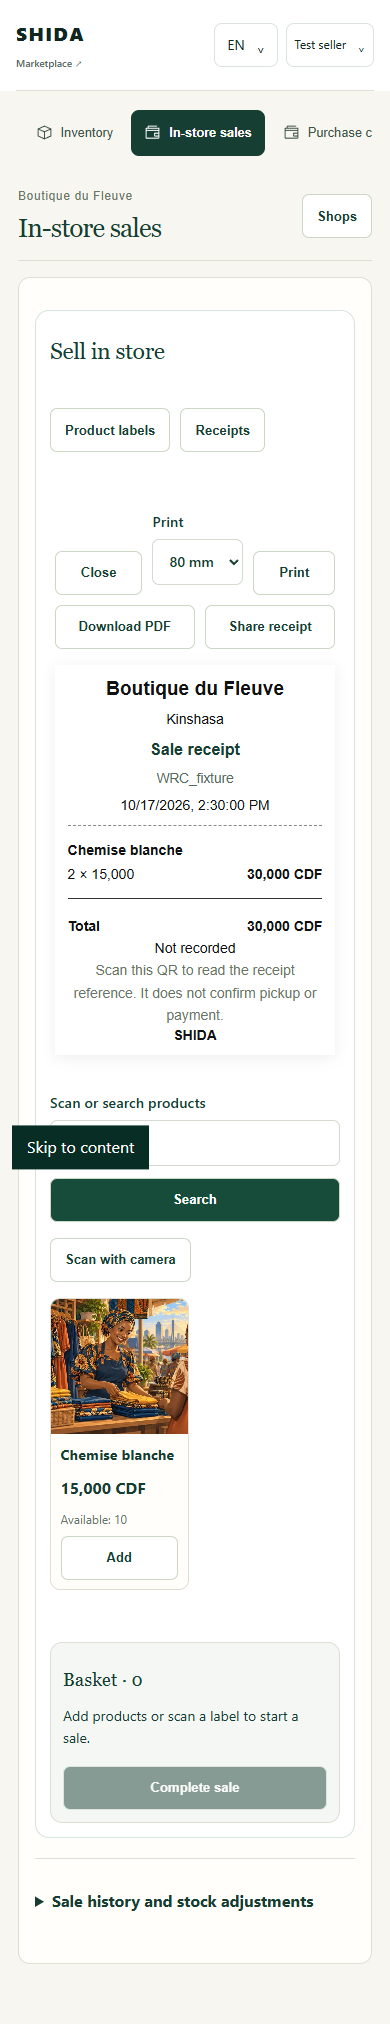
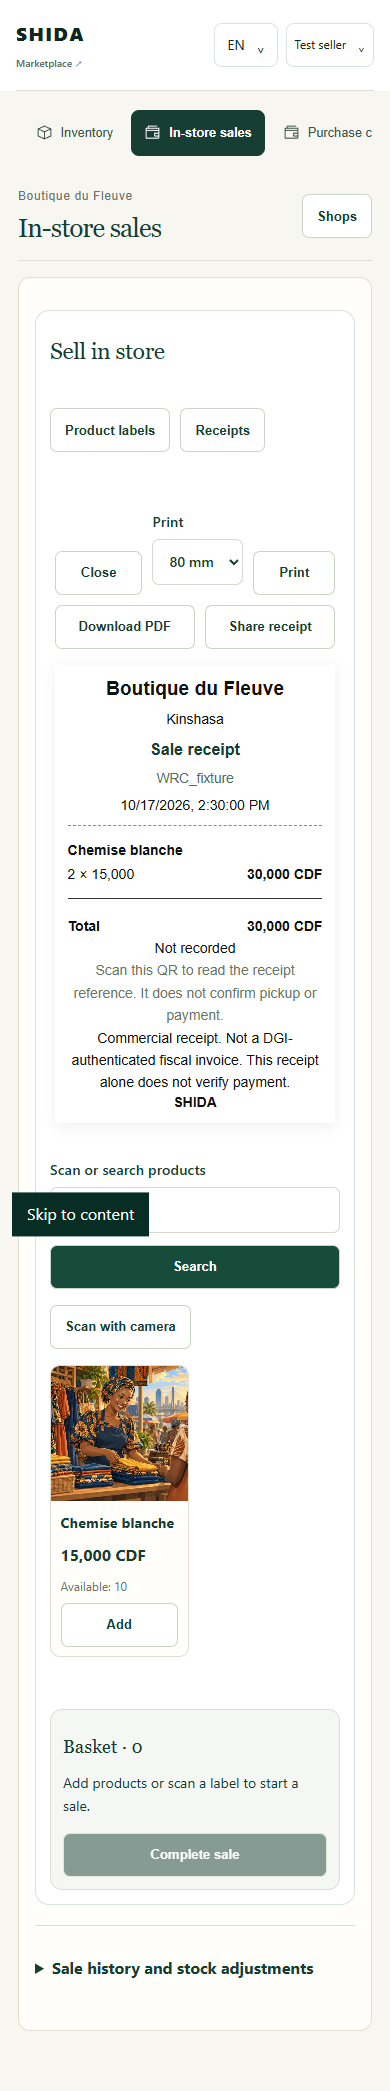
fix(wenze): label receipt previews as commercial records

diff --git a/app/lib/wenze-pos-copy.ts b/app/lib/wenze-pos-copy.ts
@@ -1,5 +1,11 @@
 import type {WenzeLocale} from './wenze-copy';
 const words:Record<string,[string,string,string,string]>={
+ commercialReceipt:[
+  'Commercial receipt. Not a DGI-authenticated fiscal invoice. This receipt alone does not verify payment.',
+  'Reçu commercial. Ce document n’est pas une facture fiscale authentifiée par la DGI. Ce reçu seul ne prouve pas que le paiement a été vérifié.',
+  'Resi ya mombongo. Ezali facture fiscale oyo DGI endimi te. Resi oyo yango moko endimisi te ete lifuti etalami.',
+  'Risiti ya biashara. Si ankara ya kodi iliyothibitishwa na DGI. Risiti hii pekee haithibitishi kwamba malipo yamehakikiwa.',
+ ],
  delivery:['Delivery','Livraison','Kotinda','Uwasilishaji'],
  noReceipts:['No receipts yet. Your completed in-store sales will appear here.','Aucun reçu pour le moment. Vos ventes en boutique apparaîtront ici.','Resi ezali naino te. Vente ya butiki ekomonana awa.','Hakuna risiti bado. Mauzo ya dukani yataonekana hapa.'],
  sell:['Sell in store','Vendre en boutique','Teka na butiki','Uza dukani'], labels:['Product labels','Étiquettes produits','Bilembeteli ya biloko','Lebo za bidhaa'], basket:['Basket','Panier','Kitunga','Kikapu'], scan:['Scan or search products','Scanner ou rechercher un produit','Skane to luka eloko','Changanua au tafuta bidhaa'], search:['Search','Rechercher','Luka','Tafuta'], add:['Add','Ajouter','Bakisa','Ongeza'], remove:['Remove','Retirer','Longola','Ondoa'], quantity:['Quantity','Quantité','Motango','Idadi'], price:['Unit price','Prix unitaire','Ntalo ya moko','Bei ya moja'], total:['Total','Total','Nyoso','Jumla'], checkout:['Complete sale','Enregistrer la vente','Koma vente','Kamilisha mauzo'], empty:['Add products or scan a label to start a sale.','Ajoutez des produits ou scannez une étiquette pour commencer.','Bakisa biloko to skane elembo mpo na kobanda.','Ongeza bidhaa au changanua lebo kuanza.'], noProducts:['No matching products. Try another search.','Aucun produit trouvé. Essayez une autre recherche.','Eloko ezwami te. Luka lisusu.','Hakuna bidhaa. Jaribu kutafuta tena.'], available:['Available','Disponible','Ezali','Zilizopo'], unknown:['Set up stock before selling','Configurez le stock avant de vendre','Bongisa stock liboso ya koteka','Weka hesabu ya bidhaa kabla ya kuuza'], loading:['Loading…','Chargement…','Ezali koya…','Inapakia…'], error:['This could not be completed. Please try again.','Impossible de terminer. Réessayez.','Esimbi te. Meka lisusu.','Haijakamilika. Jaribu tena.'], conflict:['Stock or access changed. Refresh and check your basket.','Le stock ou les droits ont changé. Actualisez et vérifiez le panier.','Stock to ndingisa ebongwani. Tala kitunga lisusu.','Bidhaa au ruhusa zimebadilika. Sasisha kikapu.'], uncertain:['The result is not confirmed yet. Retry this same sale before starting another.','Le résultat reste incertain. Réessayez cette même vente avant d’en commencer une autre.','Eyano eyebani naino te. Meka vente oyo lisusu.','Matokeo hayajathibitishwa. Jaribu mauzo haya tena.'], retry:['Retry sale','Réessayer la vente','Meka vente lisusu','Jaribu mauzo tena'], payment:['Payment record','Paiement','Lifuti','Rekodi ya malipo'], not_recorded:['Not recorded','Non enregistré','Ekomami te','Haijarekodiwa'], seller_recorded_cash:['Cash received — recorded by me','Espèces reçues — déclaré par moi','Mbongo ezwami — ngai nakomi','Fedha taslimu — nimerekodi'], seller_recorded_mobile:['Mobile money received — recorded by me','Mobile money reçu — déclaré par moi','Mobile money ezwami — ngai nakomi','Mobile money — nimerekodi'], seller_recorded_other:['Other payment received — recorded by me','Autre paiement reçu — déclaré par moi','Lifuti mosusu ezwami — ngai nakomi','Malipo mengine — nimerekodi'], verified:['Payment verified','Paiement vérifié','Lifuti endimami','Malipo yamethibitishwa'], recorded:['Payment recorded by seller','Paiement déclaré par le vendeur','Moteki akomi lifuti','Malipo yamerekodiwa na muuzaji'], receipt:['Sale receipt','Reçu de vente','Resi ya vente','Risiti ya mauzo'], receipts:['Receipts','Reçus','Baresi','Risiti'], print:['Print','Imprimer','Nyata','Chapisha'], download:['Download PDF','Télécharger le PDF','Zwá PDF','Pakua PDF'], share:['Share receipt','Partager le reçu','Kabola resi','Shiriki risiti'], shareFallback:['PDF downloaded. You can attach it to your customer’s WhatsApp chat.','PDF téléchargé. Vous pouvez le joindre au message WhatsApp du client.','PDF ekiti. Okoki kotinda yango na WhatsApp ya client.','PDF imepakuliwa. Unaweza kuituma kwa mteja kwenye WhatsApp.'], close:['Close','Fermer','Kanga','Funga'], next:['Next','Suivant','Elandi','Inayofuata'], previous:['Previous','Précédent','Ya liboso','Iliyotangulia'], refresh:['Refresh','Actualiser','Zongisa sika','Sasisha'], copies:['Labels to print','Étiquettes à imprimer','Bilembeteli ya konyata','Lebo za kuchapisha'], preview:['Print preview','Aperçu avant impression','Tala liboso ya konyata','Hakiki kabla ya kuchapisha'], labelHint:['60 × 40 mm • Print at actual size. Test one label before printing a batch.','60 × 40 mm • Imprimez à taille réelle. Testez une étiquette avant le lot.','60 × 40 mm • Nyata na bonene na yango. Meka moko liboso.','60 × 40 mm • Chapisha kwa ukubwa halisi. Jaribu lebo moja kwanza.'], labelSelect:['Choose labels','Choisir les étiquettes','Pona bilembeteli','Chagua lebo'], receiptHint:['Scan this QR to read the receipt reference. It does not confirm pickup or payment.','Ce QR contient la référence du reçu. Il ne confirme ni retrait ni paiement.','QR oyo ezali nimero ya resi. Endimisi te kozwa biloko to lifuti.','QR hii ina namba ya risiti. Haithibitishi kuchukua bidhaa wala malipo.'], reversed:['Reversed','Annulé','Elongolami','Imebatilishwa'], originalTotals:['Original totals — see reversed items above','Totaux d’origine — voir les articles annulés ci-dessus','Motango ya liboso — tala biloko elongolami','Jumla ya awali — angalia vilivyobatilishwa'], shareShop:['Share shop','Partager la boutique','Kabola butiki','Shiriki duka'], copyLink:['Copy link','Copier le lien','Kopi lien','Nakili kiungo'], copied:['Link copied','Lien copié','Lien ekopami','Kiungo kimenakiliwa'], hidden:['Your shop is not public yet. Customers may not be able to open this link.','Votre boutique n’est pas encore publique. Ce lien peut être inaccessible aux clients.','Butiki emonani naino te. Bakiliya bakoki kofungola lien te.','Duka lako bado si la umma. Wateja huenda wasifungue kiungo.'], downloadQr:['Download QR','Télécharger le QR','Zwá QR','Pakua QR'], history:['Sale history and stock adjustments','Historique et ajustements de stock','Istware ya vente mpe stock','Historia ya mauzo na marekebisho'], camera:['Scan with camera','Scanner avec la caméra','Skane na kamera','Changanua kwa kamera'], cameraHelp:['Camera scanning is unavailable here. Use a scanner or type the code.','Scan caméra indisponible ici. Utilisez un lecteur ou saisissez le code.','Kamera ekoki koskane te. Salela scanner to koma code.','Kamera haiwezi kuchanganua hapa. Tumia skana au andika namba.'], stop:['Stop camera','Arrêter la caméra','Kanga kamera','Zima kamera'], ordersEmpty:['No orders here yet. New customer orders will appear here.','Aucune commande ici. Les nouvelles commandes apparaîtront ici.','Commande ezali naino te. Ya sika ekomonana awa.','Hakuna oda bado. Oda mpya zitaonekana hapa.'], upload:['Upload file','Importer le fichier','Tinda fichier','Pakia faili'], columns:['Check columns','Vérifier les colonnes','Tala bakoloni','Kagua safu'], review:['Review products','Vérifier les produits','Tala biloko','Kagua bidhaa'], publish:['Publish','Publier','Lakisa','Chapisha'], importHelp:['Use the template, add your products, then check them before publishing.','Remplissez le modèle avec vos produits, puis vérifiez avant de publier.','Tondisa modele na biloko, tala yango liboso ya kolakisa.','Jaza bidhaa kwenye kiolezo, kisha zikague kabla ya kuchapisha.'], importHistory:['Previous imports','Imports précédents','Bafichier ya kala','Uingizaji wa awali'], export:['Download report','Télécharger le rapport','Zwá rapport','Pakua ripoti'], pdf:['PDF report','Rapport PDF','Rapport PDF','Ripoti PDF'], excel:['Excel workbook','Classeur Excel','Fichier Excel','Faili la Excel'], stockTools:['Stock settings and counting','Réglages et comptage du stock','Bongisa mpe tanga stock','Mipangilio na kuhesabu bidhaa'], valued_targets:['Products with a purchase cost','Produits avec coût d’achat','Biloko na ntalo ya kosomba','Bidhaa zenye gharama ya ununuzi'], missing_cost:['Products needing a purchase cost','Produits sans coût d’achat','Biloko ezangi ntalo ya kosomba','Bidhaa zisizo na gharama'], unknown_stock:['Products without a stock count','Produits sans quantité connue','Biloko stock eyebani te','Bidhaa zisizohesabiwa'], total_targets:['Products and variants','Produits et variantes','Biloko mpe mitindo','Bidhaa na aina'], complete:['All costs entered','Tous les coûts sont renseignés','Bantalo nyonso ekomami','Gharama zote zimewekwa'],

diff --git a/app/components/shida/wenze-pos.tsx b/app/components/shida/wenze-pos.tsx
@@ -20,7 +20,7 @@ export function WenzeReceipt({receipt:initial,locale,onClose}:{receipt:Receipt;l
  const base=`wenze/contexts/personal/stores/${enc(initial.store_ref)}/pos/receipts/${enc(initial.receipt_ref)}`;
  useEffect(()=>{let alive=true;request(base).then(r=>{if(alive)setReceipt(r as Receipt);}).catch(()=>setMessage(t('error')));return()=>{alive=false;};},[base,request]); // eslint-disable-line react-hooks/exhaustive-deps
  async function output(kind:string){setBusy(true);setMessage('');const tab=kind==='print'?window.open('about:blank','_blank'):null;if(tab)tab.opener=null;try{const pdf=await file(`${base}/pdf?language=${locale}&width=${width}`);if(kind==='print'&&tab){const url=URL.createObjectURL(pdf);tab.location.href=url;setTimeout(()=>URL.revokeObjectURL(url),120000);}else if(kind==='share'&&navigator.canShare?.({files:[pdf]})){try{await navigator.share({files:[pdf],title:receipt.shop_name});}catch(e){if(e instanceof DOMException&&e.name==='AbortError')throw e;saveFile(pdf);setMessage(t('shareFallback'));}}else{saveFile(pdf);if(kind==='share')setMessage(t('shareFallback'));}}catch(e){tab?.close();if(!(e instanceof DOMException&&e.name==='AbortError'))setMessage(t('error'));}finally{setBusy(false);}}
- return <section className="wz-receipt-panel" aria-label={t('receipt')}><div className="wz-actions"><button onClick={onClose}>{t('close')}</button><label><span>{t('print')}</span><select value={width} onChange={e=>setWidth(e.target.value)}><option value="80">80 mm</option><option value="58">58 mm</option></select></label>{['print','download','share'].map(k=><button disabled={busy} key={k} onClick={()=>void output(k)}>{t(k)}</button>)}</div>{message&&<p role="status">{message}</p>}<article className="wz-receipt-paper" style={{maxWidth:width==='58'?290:400}}><header><strong>{receipt.shop_name}</strong><p>{receipt.city}</p><h3>{t('receipt')}</h3><small>{receipt.receipt_ref}</small><p>{new Date(receipt.sold_at).toLocaleString(locale)}</p></header>{receipt.lines.map((line,i)=><div className="wz-receipt-line" key={i}><strong>{line.kind==='delivery'?t('delivery'):line.name}</strong><span>{line.quantity}{line.unit_price!==null&&` × ${money(line.unit_price,locale)}`}</span><b>{money(line.total,locale)} {line.currency}</b>{line.reversed&&<em>{t('reversed')}</em>}</div>)}{receipt.totals.map(row=><p className="wz-receipt-total" key={row.currency}><strong>{t('total')}</strong><strong>{money(row.amount,locale)} {row.currency}</strong></p>)}{receipt.has_reversals&&<p>{t('originalTotals')}</p>}<p>{t(receipt.payment==='verified'?'verified':receipt.payment.startsWith('seller_recorded')?'recorded':'not_recorded')}</p>{receipt.qr_image&&<Image unoptimized src={receipt.qr_image} width={130} height={130} alt="QR"/>}<p className="wz-soft-note">{t('receiptHint')}</p><strong>SHIDA</strong></article></section>;
+ return <section className="wz-receipt-panel" aria-label={t('receipt')}><div className="wz-actions"><button onClick={onClose}>{t('close')}</button><label><span>{t('print')}</span><select value={width} onChange={e=>setWidth(e.target.value)}><option value="80">80 mm</option><option value="58">58 mm</option></select></label>{['print','download','share'].map(k=><button disabled={busy} key={k} onClick={()=>void output(k)}>{t(k)}</button>)}</div>{message&&<p role="status">{message}</p>}<article className="wz-receipt-paper" style={{maxWidth:width==='58'?290:400}}><header><strong>{receipt.shop_name}</strong><p>{receipt.city}</p><h3>{t('receipt')}</h3><small>{receipt.receipt_ref}</small><p>{new Date(receipt.sold_at).toLocaleString(locale)}</p></header>{receipt.lines.map((line,i)=><div className="wz-receipt-line" key={i}><strong>{line.kind==='delivery'?t('delivery'):line.name}</strong><span>{line.quantity}{line.unit_price!==null&&` × ${money(line.unit_price,locale)}`}</span><b>{money(line.total,locale)} {line.currency}</b>{line.reversed&&<em>{t('reversed')}</em>}</div>)}{receipt.totals.map(row=><p className="wz-receipt-total" key={row.currency}><strong>{t('total')}</strong><strong>{money(row.amount,locale)} {row.currency}</strong></p>)}{receipt.has_reversals&&<p>{t('originalTotals')}</p>}<p>{t(receipt.payment==='verified'?'verified':receipt.payment.startsWith('seller_recorded')?'recorded':'not_recorded')}</p>{receipt.qr_image&&<Image unoptimized src={receipt.qr_image} width={130} height={130} alt="QR"/>}<p className="wz-soft-note">{t('receiptHint')}</p><p>{t('commercialReceipt')}</p><strong>SHIDA</strong></article></section>;
 }
 
 export function WenzeShareShop({storeRef,locale}:{storeRef:string;locale:WenzeLocale}){

diff --git a/tests/browser/wenze-pos.browser.ts b/tests/browser/wenze-pos.browser.ts
@@ -48,6 +48,7 @@ for(const locale of ['en','fr','ln','sw'] as const)test(`basket labels receipts 
  await expect(pos.getByLabel(t('quantity'),{exact:true})).toHaveValue('2');
  await pos.getByRole('button',{name:t('checkout'),exact:true}).click();await expect(pos.getByText(t('uncertain'),{exact:true})).toBeVisible();
  await pos.getByRole('button',{name:t('retry'),exact:true}).click();await expect(pos.locator('.wz-receipt-paper')).toBeVisible();expect(keys[0]).toBe(keys[1]);
+ await expect(pos.locator('.wz-receipt-paper').getByText(t('commercialReceipt'),{exact:true})).toBeVisible();
  expect(await page.evaluate(()=>document.documentElement.scrollWidth<=innerWidth)).toBe(true);
  await page.screenshot({path:`docs/evidence/wenze-pos/receipt-${locale}-mobile.png`,fullPage:true});
  await pos.locator('.wz-receipt-panel').getByRole('button',{name:t('close'),exact:true}).click();

diff --git a/docs/wenze-receipt-boundary-2026-10-20.md b/docs/wenze-receipt-boundary-2026-10-20.md
@@ -1,0 +1,14 @@
+# Wenze receipt clarification
+
+The receipt preview now identifies the document as a commercial receipt, not a
+DGI-authenticated fiscal invoice or independent verification of payment.
+EN/FR/LN/SW text accompanies the existing reference-only QR explanation.
+
+Existing totals, reversal evidence and payment-state labels remain unchanged.
+The shared backend PDF provides equivalent explanations for both 58 and 80 mm
+paper. No API, schema, authentication, dependency or environment change.
+
+Implementation requirements and fiscal prerequisites:
+[Backend WNZ-01](https://github.com/FrancisMabala/shida-backend/blob/main/docs/wenze/WNZ_01_COMMERCIAL_RECEIPTS.md).
+Actual test and release evidence belongs in the existing Wenze implementation
+tracker. No fiscal integration or deployment is implied by this document.
